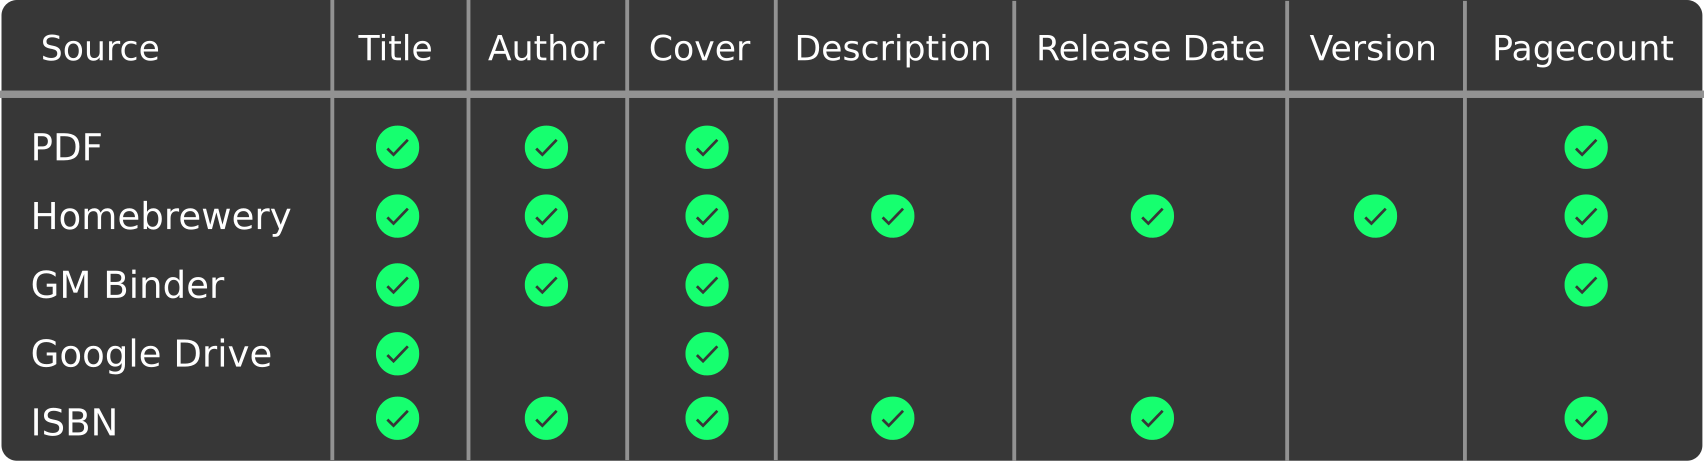
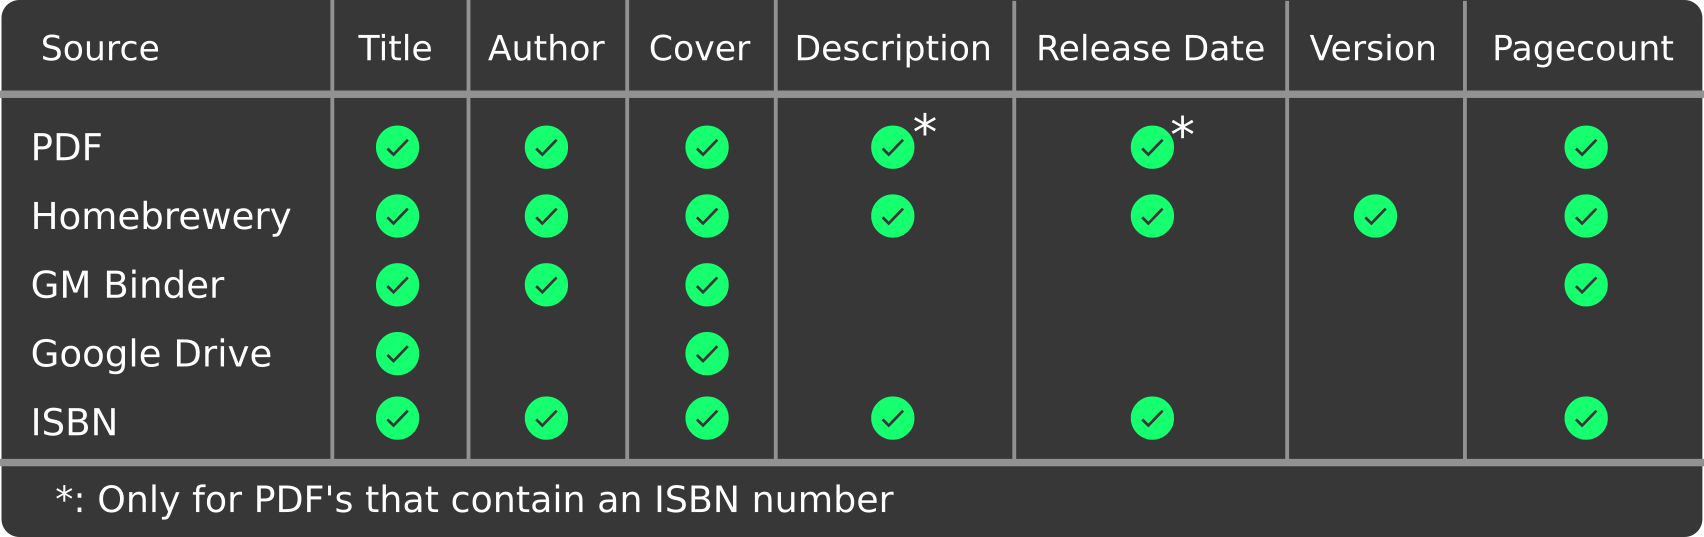
Scan pdf's for ISBN number on import

diff --git a/src/ViewModels/Sources/OnlineSources/ISBNSourceViewModel.cs b/src/ViewModels/Sources/OnlineSources/ISBNSourceViewModel.cs
@@ -18,29 +18,50 @@ namespace COMPASS.ViewModels.Sources
 
         public override Codex SetMetaData(Codex codex)
         {
-            worker.ReportProgress(ProgressCounter, new LogEntry(LogEntry.MsgType.Info, "Fetching Data"));
-            string uri = $"http://openlibrary.org/api/books?bibkeys=ISBN:{InputURL.Trim('-', ' ')}&format=json&jscmd=details";
+            if (IsImporting)
+            {
+                codex.ISBN = InputURL;
+                worker.ReportProgress(ProgressCounter, new LogEntry(LogEntry.MsgType.Info, "Fetching Data"));
+            }
+
+            string uri = $"http://openlibrary.org/api/books?bibkeys=ISBN:{codex.ISBN.Trim('-', ' ')}&format=json&jscmd=details";
 
             JObject metadata = Task.Run(async () => await Utils.GetJsonAsync(uri)).Result;
 
             if (!metadata.HasValues)
             {
-                string message = $"ISBN {InputURL} was not found on openlibrary.org \n" +
+                string message = $"ISBN {codex.ISBN} was not found on openlibrary.org \n" +
                     $"You can contribute by submitting this book at \n" +
                     $"https://openlibrary.org/books/add";
-                worker.ReportProgress(ProgressCounter, new LogEntry(LogEntry.MsgType.Error, message));
-                Logger.Error($"Could not find ISBN {InputURL} on openlibrary.org", new Exception());
+                if (IsImporting) worker.ReportProgress(ProgressCounter, new LogEntry(LogEntry.MsgType.Error, message));
+                Logger.Warn($"Could not find ISBN {codex.ISBN} on openlibrary.org", new Exception());
                 return codex;
             }
 
-            //loading complete
-            ProgressCounter++;
-            worker.ReportProgress(ProgressCounter, new LogEntry(LogEntry.MsgType.Info, "File loaded, parsing metadata"));
+            if (IsImporting)
+            {
+                //loading complete
+                ProgressCounter++;
+                worker.ReportProgress(ProgressCounter, new LogEntry(LogEntry.MsgType.Info, "File loaded, parsing metadata"));
+            }
 
             //Start parsing json
             var details = metadata.First.First.SelectToken("details");
             //Title
-            codex.Title = (string)details.SelectToken("title");
+            if (!String.IsNullOrWhiteSpace((string)details.SelectToken("full_title")))
+            {
+                codex.Title = (string)details.SelectToken("full_title");
+            }
+            else
+            {
+                codex.Title = (string)details.SelectToken("title") ?? codex.Title;
+                if (!String.IsNullOrWhiteSpace((string)details.SelectToken("subtitle")))
+                {
+                    codex.Title += " ";
+                    codex.Title += (string)details.SelectToken("subtitle");
+                }
+            }
+
             //Authors
             if (details.SelectToken("authors") != null)
             {
@@ -64,12 +85,9 @@ namespace COMPASS.ViewModels.Sources
             if (DateTime.TryParse((string)details.SelectToken("publish_date"), out tempDate))
                 codex.ReleaseDate = tempDate;
 
-            //Other
-            codex.ISBN = InputURL;
-            codex.Physically_Owned = true;
-
             return codex;
         }
+
         public override bool FetchCover(Codex codex)
         {
             try

diff --git a/src/ViewModels/Sources/LocalSources/LocalSourceViewModel.cs b/src/ViewModels/Sources/LocalSources/LocalSourceViewModel.cs
@@ -1,6 +1,8 @@
 using COMPASS.Models;
 using COMPASS.Tools;
 using iText.Kernel.Pdf;
+using iText.Kernel.Pdf.Canvas.Parser;
+using iText.Kernel.Pdf.Canvas.Parser.Listener;
 using System;
 using System.Collections.Generic;
 using System.ComponentModel;
@@ -23,8 +25,8 @@ namespace COMPASS.ViewModels.Sources
                 case ".pdf":
                     try
                     {
-                        PdfDocument pdfdoc = new(new PdfReader(codex.Path));
-                        var info = pdfdoc.GetDocumentInfo();
+                        PdfDocument pdfDoc = new(new PdfReader(codex.Path));
+                        var info = pdfDoc.GetDocumentInfo();
                         if (!String.IsNullOrWhiteSpace(info.GetTitle()))
                         {
                             codex.Title = info.GetTitle();
@@ -33,8 +35,28 @@ namespace COMPASS.ViewModels.Sources
                         {
                             codex.Authors = new() { info.GetAuthor() };
                         }
-                        codex.PageCount = pdfdoc.GetNumberOfPages();
-                        pdfdoc.Close();
+                        codex.PageCount = pdfDoc.GetNumberOfPages();
+
+                        //Search for ISBN number in first 5 pages
+                        for (int page = 1; page <= Math.Max(5, pdfDoc.GetNumberOfPages()); page++)
+                        {
+                            ITextExtractionStrategy strategy = new SimpleTextExtractionStrategy();
+                            string pageContent = PdfTextExtractor.GetTextFromPage(pdfDoc.GetPage(page), strategy);
+                            //strip text of spaces
+                            pageContent = Constants.RegexWhitespace().Replace(pageContent, "");
+                            //search ISBN
+                            string ISBN = Constants.RegexISBN().Match(pageContent)?.Value;
+                            if (!String.IsNullOrEmpty(ISBN))
+                            {
+                                //Remove the "ISBN" so only number remains
+                                ISBN = Constants.RegexISBNNumberOnly().Match(pageContent).Value;
+                                codex.ISBN = ISBN;
+                                codex = new ISBNSourceViewModel().SetMetaData(codex);
+                                break;
+                            }
+                        }
+
+                        pdfDoc.Close();
                     }
 
                     catch (Exception ex)

diff --git a/src/Models/Constants.cs b/src/Models/Constants.cs
@@ -1,14 +1,24 @@
 using System;
 using System.IO;
+using System.Text.RegularExpressions;
 
 namespace COMPASS.Models
 {
-    public static class Constants
+    public static partial class Constants
     {
         public const string RepoURL = "https://github.com/DSPAUL/COMPASS";
         public static readonly string CompassDataPath = Path.Combine(Environment.GetFolderPath(Environment.SpecialFolder.ApplicationData), "COMPASS");
         public static readonly string PreferencesFilePath = Path.Combine(CompassDataPath, "Preferences.xml");
         public static readonly string InstallersPath = Path.Combine(CompassDataPath, "Installers");
         public static readonly string AutoUpdateXMLPath = "https://raw.githubusercontent.com/DSPAUL/COMPASS/master/versionInfo.xml";
+
+        [GeneratedRegex("ISBN[:]*[0-9]+[-]+[0-9]+[-]+[0-9]+[-]+[0-9]+[-]+[0-9]+")]
+        public static partial Regex RegexISBN();
+
+        [GeneratedRegex("\\s+")]
+        public static partial Regex RegexWhitespace();
+
+        [GeneratedRegex("[0-9]+[-]+[0-9]+[-]+[0-9]+[-]+[0-9]+[-]+[0-9]+")]
+        public static partial Regex RegexISBNNumberOnly();
     }
 }

diff --git a/src/ViewModels/Sources/SourceViewModel.cs b/src/ViewModels/Sources/SourceViewModel.cs
@@ -56,6 +56,8 @@ namespace COMPASS.ViewModels.Sources
 
         public virtual string ProgressText => $"Import in Progress: {ProgressCounter + 1} / {ImportAmount}";
 
+        public bool IsImporting { get; set; } = false; //true on initial import, false otherwise
+
         #endregion
 
         #region Asynchronous worker stuff

diff --git a/src/ViewModels/Sources/ManualSourceViewModel.cs b/src/ViewModels/Sources/ManualSourceViewModel.cs
@@ -9,6 +9,8 @@ namespace COMPASS.ViewModels.Sources
 
         public override void Import()
         {
+            IsImporting = true;
+
             CodexEditWindow editWindow = new(new CodexEditViewModel(null));
             editWindow.ShowDialog();
             editWindow.Topmost = true;

diff --git a/src/ViewModels/Sources/LocalSources/FolderSourceViewModel.cs b/src/ViewModels/Sources/LocalSources/FolderSourceViewModel.cs
@@ -13,6 +13,8 @@ namespace COMPASS.ViewModels.Sources
 
         public override void Import()
         {
+            IsImporting = true;
+
             VistaFolderBrowserDialog openFolderDialog = new();
 
             var dialogresult = openFolderDialog.ShowDialog();

diff --git a/src/ViewModels/Sources/OnlineSources/OnlineSourceViewModel.cs b/src/ViewModels/Sources/OnlineSources/OnlineSourceViewModel.cs
@@ -14,6 +14,7 @@ namespace COMPASS.ViewModels.Sources
         #region Import logic
         public override void Import()
         {
+            IsImporting = true;
             importURLwindow = new(this);
             importURLwindow.Show();
         }

diff --git a/src/ViewModels/Sources/LocalSources/FileSourceViewModel.cs b/src/ViewModels/Sources/LocalSources/FileSourceViewModel.cs
@@ -9,6 +9,8 @@ namespace COMPASS.ViewModels.Sources
 
         public override void Import()
         {
+            IsImporting = true;
+
             OpenFileDialog openFileDialog = new()
             {
                 AddExtension = false,
